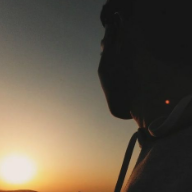
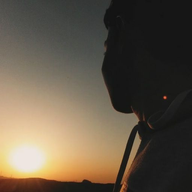
Add files via upload

Changed region(s): [[0.0, 0.0, 0.8125, 1.0], [0.8438, 0.5, 0.9062, 0.5625]]

diff --git a/index.html b/index.html
@@ -30,8 +30,9 @@
     <meta name="twitter:image" content="https://alienshtain.github.io/images/personal/me.png">
 
     <!-- ============== Icons ============== -->
-    <link rel="icon" type="image/svg+xml" href="images/icon.png">
-    <link rel="apple-touch-icon" href="images/icon.png">
+    <link rel="icon" type="image/png" href="images/icon.png">
+    <link rel="shortcut icon" href="favicon.ico">
+    <link rel="apple-touch-icon" href="images/apple-touch-icon.png">
 
     <!-- ============== Fonts & external CSS ============== -->
     <link rel="preconnect" href="https://fonts.googleapis.com">
@@ -51,7 +52,7 @@
         "image": "https://alienshtain.github.io/images/personal/me.png",
         "sameAs": [
             "https://www.linkedin.com/in/osama-al-abadi-174644293",
-            "https://github.com/osmyt",
+            "https://github.com/alienshtain",
             "https://www.instagram.com/osm.y1",
             "https://x.com/osmy_t"
         ]
@@ -110,7 +111,7 @@
                 <ul class="social-icons" aria-label="Social media links">
                     <li><a href="https://alienshtain.github.io/EduCamp/" target="_blank" rel="noopener" aria-label="EduCamp project"><i class='bx bx-code-alt'></i></a></li>
                     <li><a href="https://www.linkedin.com/in/osama-al-abadi-174644293" target="_blank" rel="noopener" aria-label="LinkedIn profile"><i class='bx bxl-linkedin'></i></a></li>
-                    <li><a href="https://github.com/osmyt" target="_blank" rel="noopener" aria-label="GitHub profile"><i class='bx bxl-github'></i></a></li>
+                    <li><a href="https://github.com/alienshtain" target="_blank" rel="noopener" aria-label="GitHub profile"><i class='bx bxl-github'></i></a></li>
                     <li><a href="https://www.instagram.com/osm.y1" target="_blank" rel="noopener" aria-label="Instagram profile"><i class='bx bxl-instagram'></i></a></li>
                     <li><a href="https://x.com/osmy_t" target="_blank" rel="noopener" aria-label="X (Twitter) profile"><i class='bx bxl-twitter'></i></a></li>
                 </ul>
@@ -242,7 +243,7 @@
 
             <ul class="social-icons" aria-label="Social media links">
                 <li><a href="https://www.linkedin.com/in/osama-al-abadi-174644293" target="_blank" rel="noopener" aria-label="LinkedIn profile"><i class='bx bxl-linkedin'></i></a></li>
-                <li><a href="https://github.com/osmyt" target="_blank" rel="noopener" aria-label="GitHub profile"><i class='bx bxl-github'></i></a></li>
+                <li><a href="https://github.com/alienshtain" target="_blank" rel="noopener" aria-label="GitHub profile"><i class='bx bxl-github'></i></a></li>
                 <li><a href="https://www.instagram.com/osm.y1" target="_blank" rel="noopener" aria-label="Instagram profile"><i class='bx bxl-instagram'></i></a></li>
                 <li><a href="https://x.com/osmy_t" target="_blank" rel="noopener" aria-label="X (Twitter) profile"><i class='bx bxl-twitter'></i></a></li>
             </ul>
